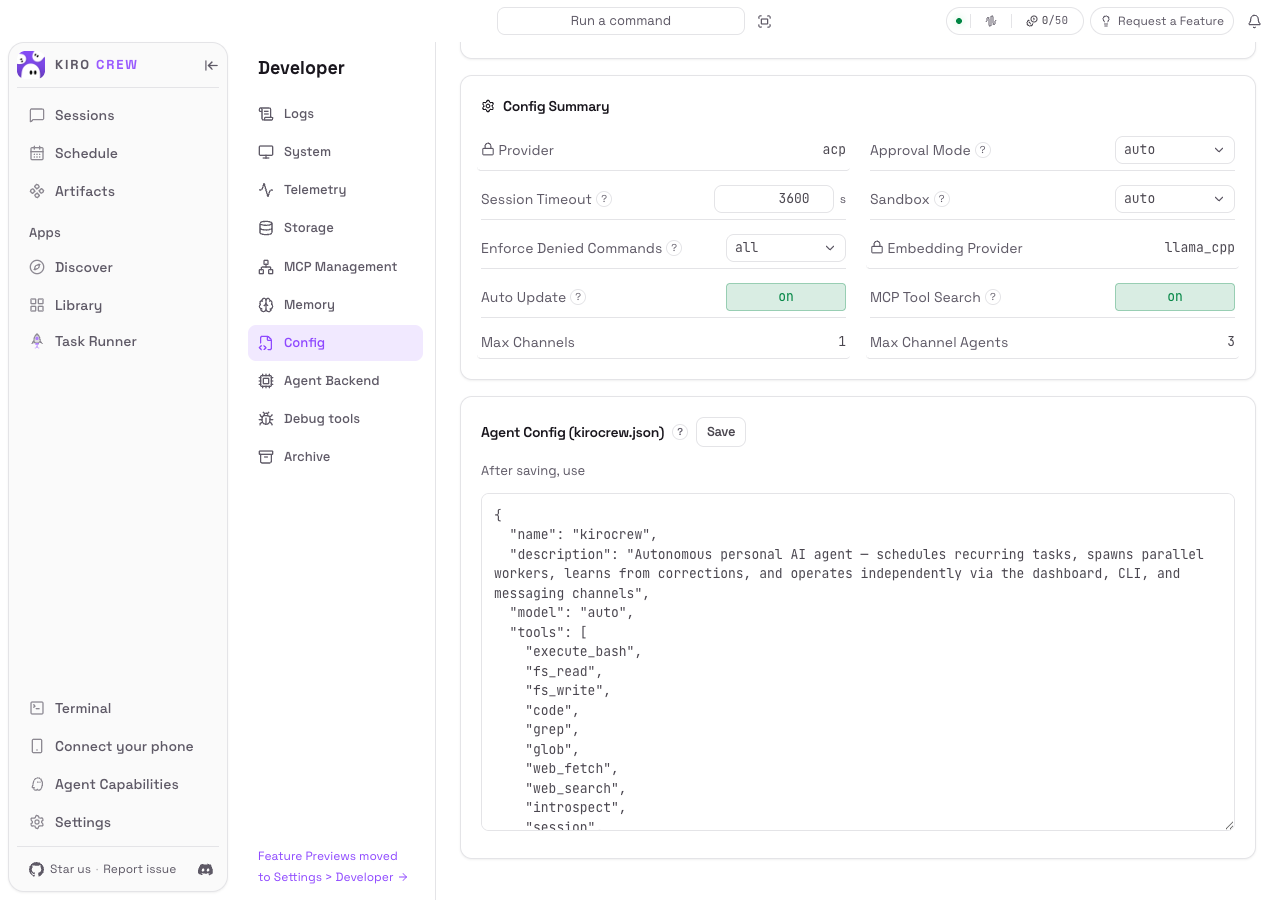
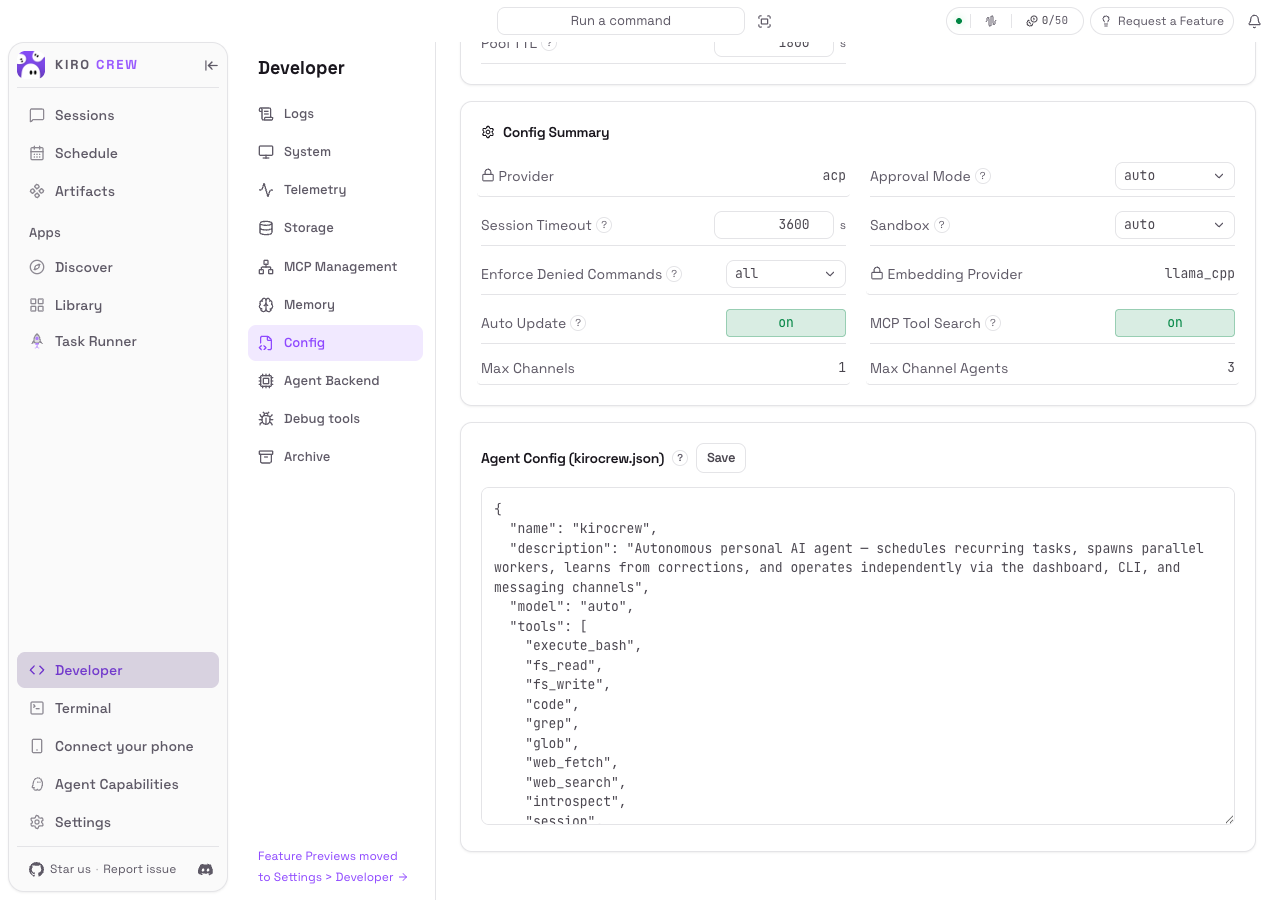
fix: drop the dead restart hint from the agent config card

diff --git a/website/src/pages/overview/AgentCfgTab.tsx b/website/src/pages/overview/AgentCfgTab.tsx
@@ -27,7 +27,6 @@ export default function AgentCfgTab() {
     <Card><CardTitle>{i18nT('pages.overview.agentCfgTab.agent_config_file', { file: provider.labels.configFile })} <InfoTip text={i18nT('pages.overview.agentCfgTab.agent_config_tip', { process: provider.labels.sessionProcess })} /> <Btn onClick={() => {
       try { const config = JSON.parse(cfg); saveMut.mutate(config) } catch { alert(i18nT('pages.overview.agentCfgTab.invalid_json')) }
     }}>{saveMut.isSuccess ? <><Check className="lucide-inline" /> {i18nT('pages.overview.agentCfgTab.saved')}</> : i18nT('pages.overview.agentCfgTab.save')}</Btn></CardTitle>
-      <p className="text-muted text-[13px] mb-3">{i18nT('pages.overview.agentCfgTab.after_saving_use')}</p>
       <textarea aria-label={i18nT('pages.overview.agentCfgTab.agent_config_json')} className="w-full bg-bg-elevated border border-border rounded-md p-3 text-text font-mono text-[13px] outline-none resize-y leading-normal transition-colors focus-ring" rows={16} value={cfg} onChange={e => setCfg(e.target.value)} placeholder={i18nT('pages.overview.agentCfgTab.loading')} />
     </Card>
   )

diff --git a/website/src/test/AgentCfgTab.test.tsx b/website/src/test/AgentCfgTab.test.tsx
@@ -35,10 +35,9 @@ describe('AgentCfgTab', () => {
     })
   })
 
-  it('renders the save hint as the whole paragraph', () => {
+  it('puts the config editor directly under the card title', () => {
     render(<AgentCfgTab />, { wrapper: Wrapper })
-    const hint = screen.getByText('After saving, use')
-    expect(hint.tagName).toBe('P')
-    expect(hint.innerHTML).toBe('After saving, use')
+    const title = screen.getByRole('heading', { level: 3 })
+    expect(title.nextElementSibling).toBe(screen.getByLabelText('Agent config JSON'))
   })
 })
